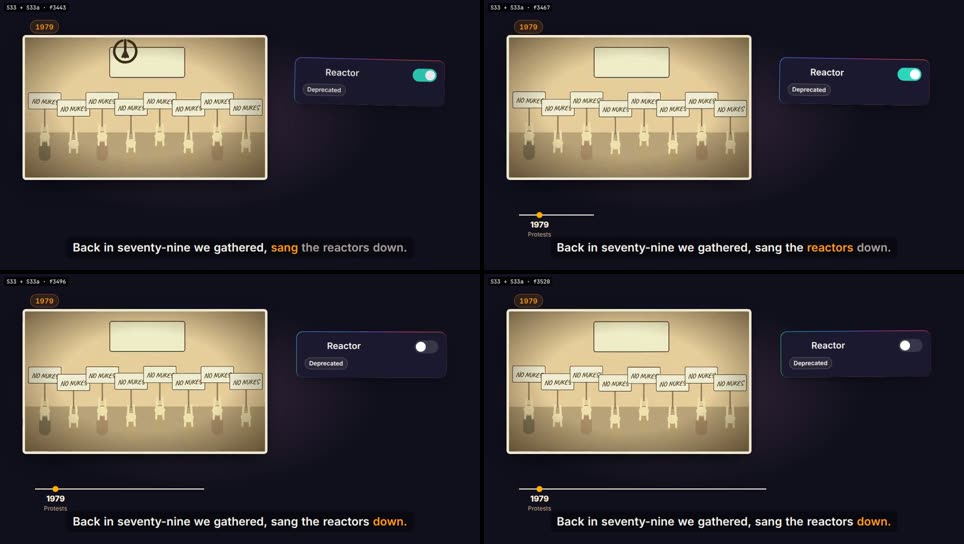
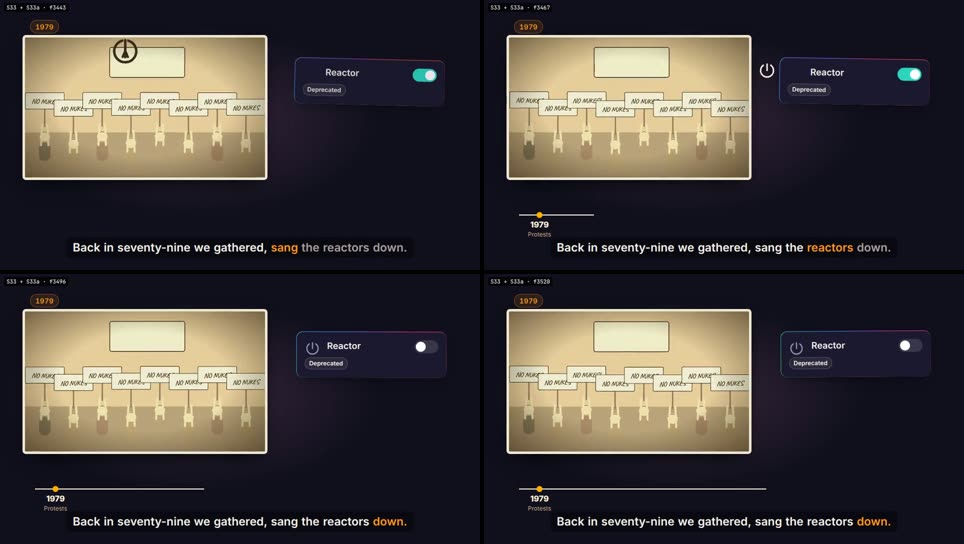
M4: animatic v2 rendered; contact sheets for every shot; v1 archived
Claude-Session: https://claude.ai/code/session_01U1tVYjqjSmd5JP5bTWdgUW

diff --git a/log/renders.md b/log/renders.md
@@ -21,3 +21,13 @@ Every render: timestamp, shot ID, composition, props, commit hash, output, conta
 - **Commit:** 17b921c. **Command:** `cd remotion && npx remotion render src/index.ts ContextReel ../renders/m3/context_reel.mp4 --scale=0.5 --crf=23` (2 min 4 s on the GTX 970 box, CPU).
 - **Output:** `renders/m3/context_reel.mp4` (87.4 s; audio mean −17.9 dB); contact sheet `review/m3_context_reel.jpg` (every 6 s).
 - **Test stills before the render** (scratch, not kept): 14 frames; they led to the haze cap of 0.45 and the overlay widening to fit "Artifact suppression: OFF (by choice)" on one line.
+
+## 2026-10-30T01:45 — M4 animatic v1 (archived)
+
+- **Shots:** all, S01–S52. **Composition:** `Animatic` (1920x1080, 30 fps, 9,057 frames: 60 pre-roll + 7,152 audio + 1,845 post-roll), `--scale=0.5 --crf=24`. **Commit:** the M4 scenes commit before 302d37e.
+- **Output:** `archive/renders/m4_animatic_v1.mp4` (superseded: S33a's power button hid under the toggle card; sign lettering clipped). A/V check: the animatic's audio at 62 s matched the master at 60.000 s (cross-correlation), the 2 s pre-roll exactly.
+
+## 2026-10-30T01:52 — M4 animatic v2
+
+- **Shots:** all, S01–S52. **Composition:** `Animatic`, same settings. **Commit:** 302d37e. **Command:** `cd remotion && npx remotion render src/index.ts Animatic ../renders/m4/animatic.mp4 --scale=0.5 --crf=24` (about 4 min on the GTX 970 box, CPU).
+- **Output:** `renders/m4/animatic.mp4` (301.9 s, 960x540). Contact sheets: `review/<shot>.jpg` for all 57 shot IDs (`scripts/contact_sheets.py`); `review/m4_animatic_overview.jpg` (every 10 s).
